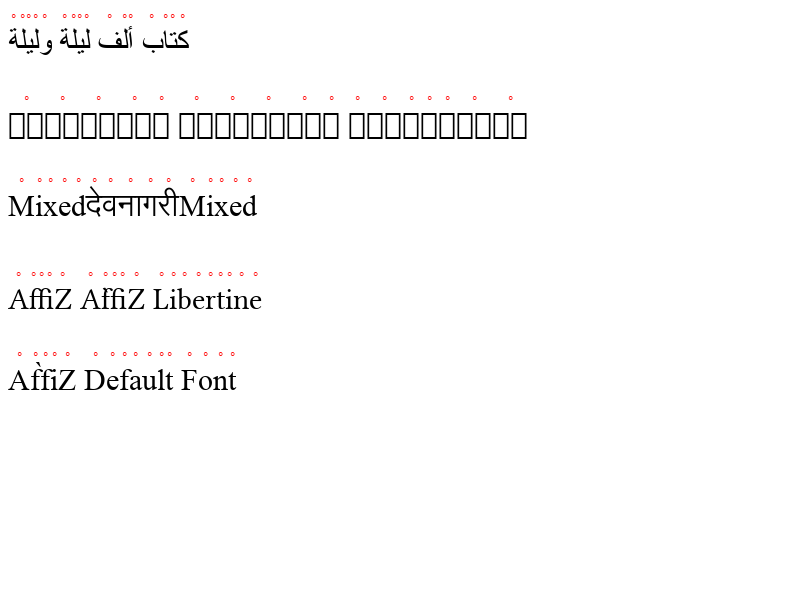
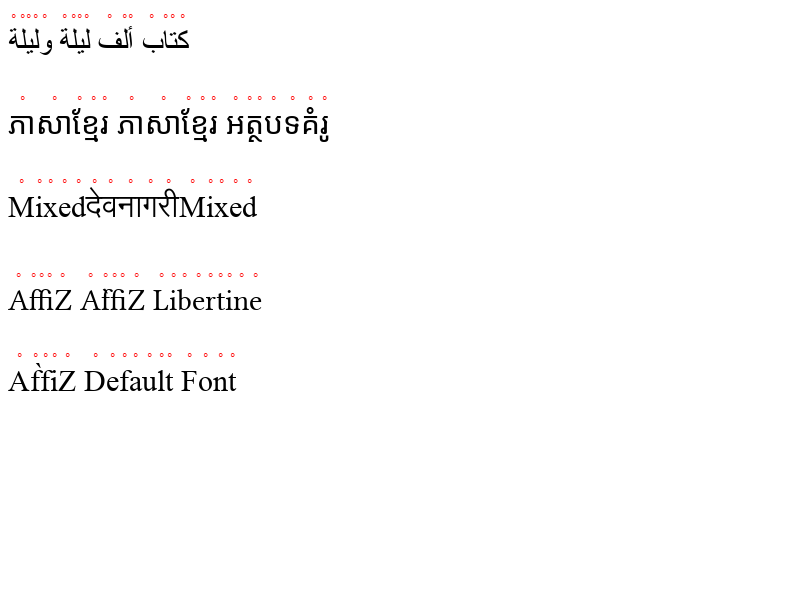
Add Noto Sans Khmer to GCS synced linux fonts
This should fix another set of layout tests and make us less dependent
on distribution specific font packages. Add a font usage line in
languages-emoji-rare-glyphs.js to make sure that Noto Sans Khmer is
used.

Bug: 772116
Commit-Queue: Dominik Röttsches <drott@chromium.org>
Cr-Commit-Position: refs/heads/master@{#519621}

diff --git a/.upstream-WebKit/LayoutTests/inspector-protocol/layout-fonts/languages-emoji-rare-glyphs.js b/.upstream-WebKit/LayoutTests/inspector-protocol/layout-fonts/languages-emoji-rare-glyphs.js
@@ -21,6 +21,7 @@
             <div lang="ar" id="arabic_pangram">نصٌّ حكيمٌ لهُ سِرٌّ قاطِعٌ وَذُو شَأنٍ عَظيمٍ مكتوبٌ على ثوبٍ أخضرَ ومُغلفٌ بجلدٍ أزرق</div>
             <div id="emoji">🌱🌲🌳🌴🌵🌷🌸🌹🌺🌻🌼💐🌾🌿🍀🍁🍂🍃🍄🌰</div>
             <div id="egyptian_hieroglyphs">𓀀𓀁𓀂𓀃𓀄𓀅𓀆𓀇𓀈𓀉𓀊𓀋𓀌𓀍𓀎𓀏</div>
+            <div lang="km" id="khmer">ខ្ញុំអាចញុំកញ្ចក់បាន ដោយគ្មានបញ្ហារ</div>
         </div>
     </body>
     </html>
